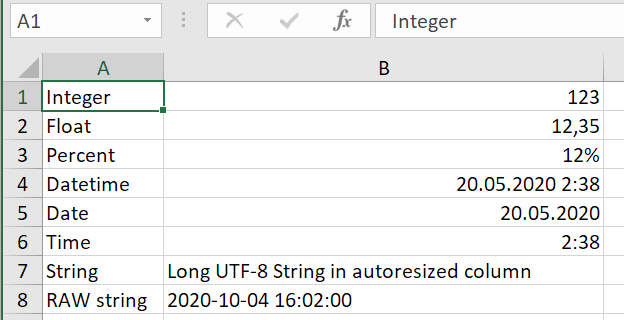
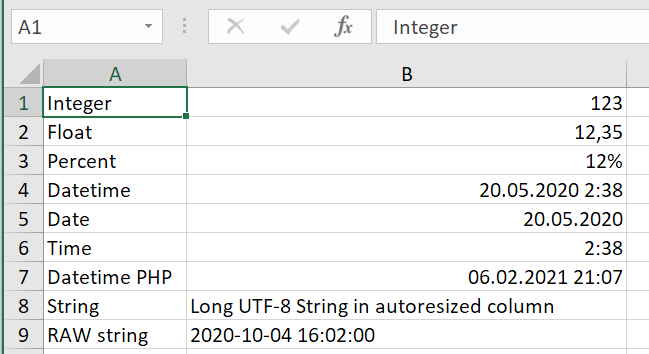
Added PHP Datetime object values in a cells

Changed region(s): [[0.0, 0.0, 1.0, 1.0], [0.2436, 0.4688, 0.3045, 0.5312], [0.2436, 0.5938, 0.3045, 0.625]]

diff --git a/src/SimpleXLSXGen.php b/src/SimpleXLSXGen.php
@@ -351,15 +351,14 @@ class SimpleXLSXGen {
 					if ( $v === null || $v === '' ) {
 						continue;
 					}
-					$vl = mb_strlen( (string) $v );
-
-					$COL[ $CUR_COL ] = max( $vl, $COL[ $CUR_COL ] );
 
 					$cname = $this->num2name($CUR_COL) . $CUR_ROW;
 
 					$ct = $cs = null;
 
 					if ( is_string($v) ) {
+
+						$vl = mb_strlen( $v );
 
 						if ( $v === '0' || preg_match( '/^[-+]?[1-9]\d{0,14}$/', $v ) ) { // Integer as General
 							$cv = ltrim( $v, '+' );
@@ -412,12 +411,20 @@ class SimpleXLSXGen {
 							}
 						}
 					} elseif ( is_int( $v ) ) {
+						$vl = mb_strlen( (string) $v );
 						$cv = $v;
 					} elseif ( is_float( $v ) ) {
+						$vl = mb_strlen( (string) $v );
 						$cv = $v;
+					} elseif ( $v instanceof DateTime ) {
+						$vl = 16;
+						$cv = $this->date2excel( $v->format('Y'), $v->format('m'), $v->format('d'), $v->format('H'), $v->format('i'), $v->format('s') );
+						$cs = 6; // [22] m/d/yy h:mm
 					} else {
 						continue;
 					}
+
+					$COL[ $CUR_COL ] = max( $vl, $COL[ $CUR_COL ] );
 
 					$row .= '<c r="' . $cname . '"'.($ct ? ' t="'.$ct.'"' : '').($cs ? ' s="'.$cs.'"' : '').'>'
 					        .($ct === 'inlineStr' ? '<is><t>'.$cv.'</t></is>' : '<v>' . $cv . '</v>')."</c>\r\n";

diff --git a/README.md b/README.md
@@ -1,4 +1,4 @@
-# SimpleXLSXGen class 0.9.24 (Official)
+# SimpleXLSXGen class 0.9.25 (Official)
 [<img src="https://img.shields.io/endpoint.svg?url=https%3A%2F%2Fshieldsio-patreon.herokuapp.com%2Fshuchkin" />](https://www.patreon.com/shuchkin) [<img src="https://img.shields.io/github/license/shuchkin/simplexlsxgen" />](https://github.com/shuchkin/simplexlsxgen/blob/master/license.md) [<img src="https://img.shields.io/github/stars/shuchkin/simplexlsxgen" />](https://github.com/shuchkin/simplexlsxgen/stargazers) [<img src="https://img.shields.io/github/forks/shuchkin/simplexlsxgen" />](https://github.com/shuchkin/simplexlsxgen/network) [<img src="https://img.shields.io/github/issues/shuchkin/simplexlsxgen" />](https://github.com/shuchkin/simplexlsxgen/issues)
 
 Export data to Excel XLSX file. PHP XLSX generator. No external tools and libraries.<br/>
@@ -40,8 +40,9 @@ $data = [
     ['Datetime', '2020-05-20 02:38:00'],
     ['Date','2020-05-20'],
     ['Time','02:38:00'],
+    ['Datetime PHP', new DateTime('2021-02-06 21:07:00')],
     ['String', 'Long UTF-8 String in autoresized column'],
-    ['Disable Type Detection', "\0".'2020-10-04 16:02:00']
+    ['RAW string', "\0".'2020-10-04 16:02:00']
 ];
 SimpleXLSXGen::fromArray( $data )->saveAs('datatypes.xlsx');
 ```
@@ -72,6 +73,7 @@ SimpleXLSXGen::fromArray( $data )->saveAs('debug.xlsx');
 
 
 ## History
+v0.9.25 (2021-02-26) Added PHP Datetime object values in a cells
 v0.9.24 (2021-02-26) * Percent<br/>
 v0.9.23 (2021-01-25) Fix local floats in XML<br/>
 v0.9.22 (2020-11-04) Added multiple sheets support, thx [Savino59](https://github.com/Savino59), class ready for extend now<br/> 
